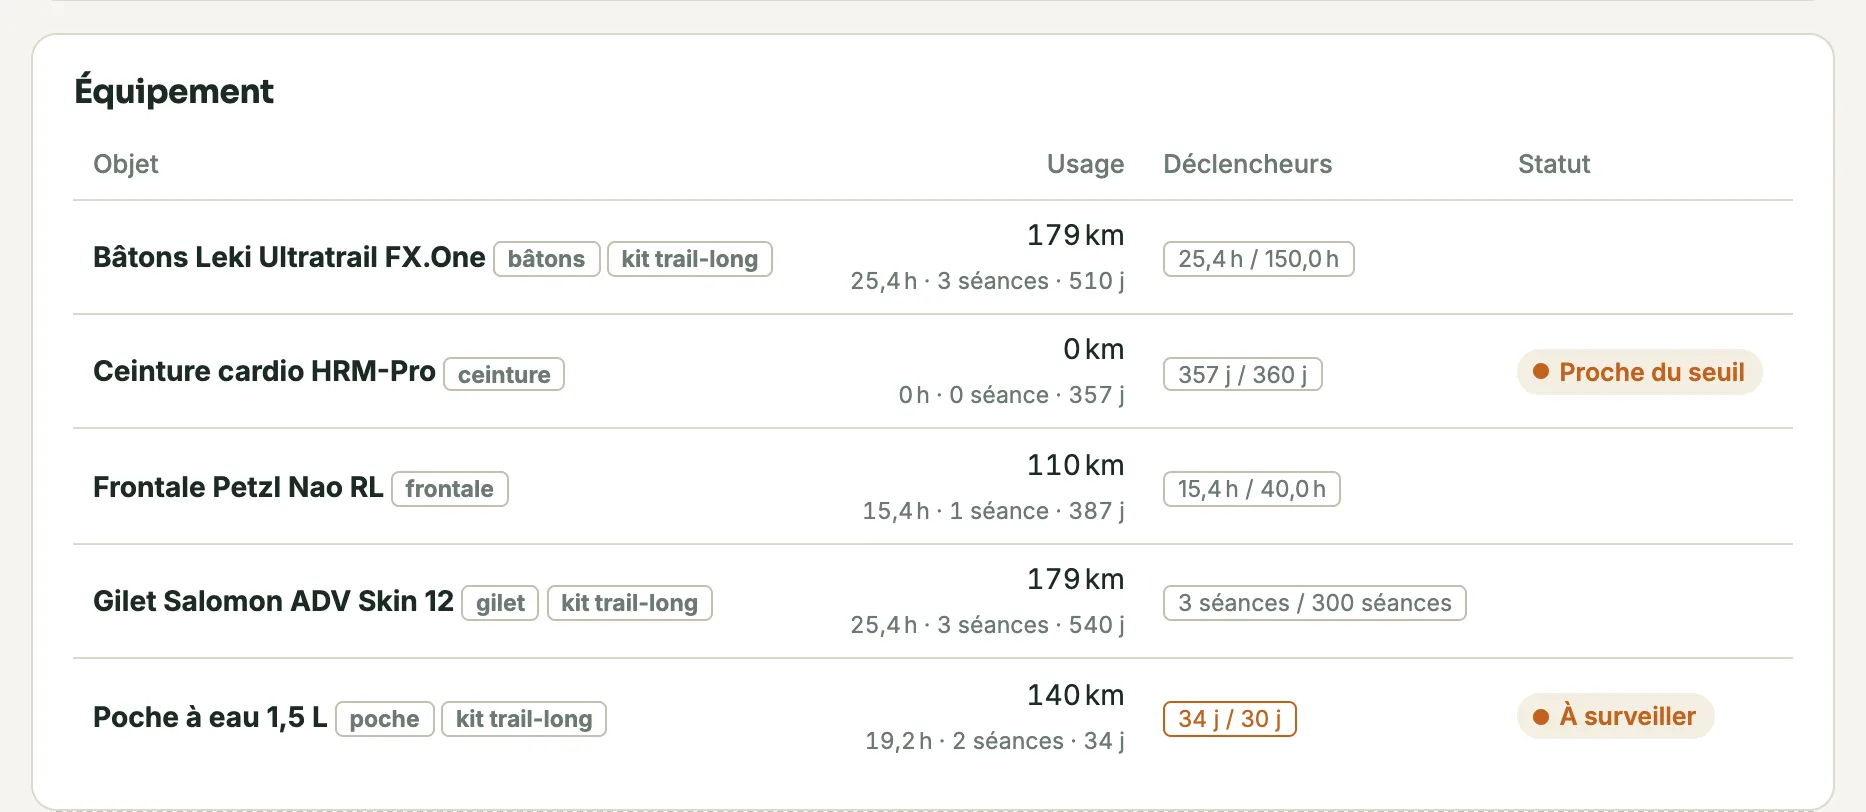
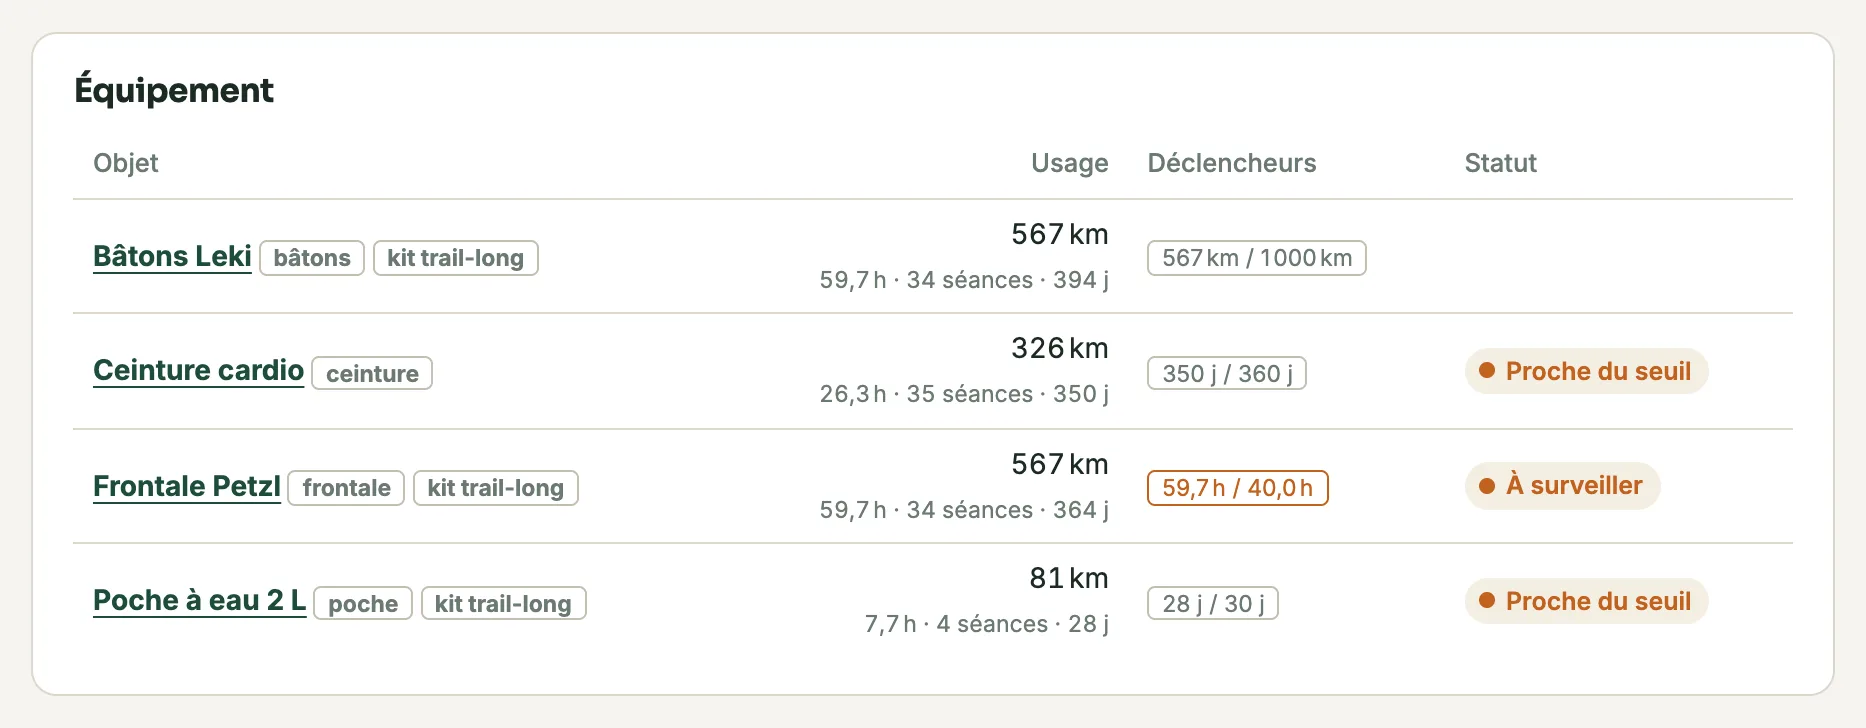
docs(matériel): captures sur workspace de démonstration, fiche d'objet, séance, Aujourd'hui, mobile, vignette ; exemple de rapport de rattrapage (#147)
Remplace les deux captures prises sur un workspace réel par un workspace de démonstration
(tests/lib/synthetic.py, inventaire ajusté) : aucune donnée personnelle dans le dépôt.

diff --git a/docs/dashboard/views.md b/docs/dashboard/views.md
@@ -642,6 +642,12 @@ déclaration. Un lien « Hypothèses des modèles » en tête renvoie vers celle
 **chaussures**, l'**équipement** (kits compris) et les **inspections photo**. Les trois cartes
 vivaient jusque-là dans Performance.
 
+!!! note "Captures de cette section"
+    Elles viennent d'un **workspace de démonstration** (générateur des tests,
+    `tests/lib/synthetic.py`), pas du workspace réel des autres captures : un inventaire
+    varié (paire proche du seuil, paire retirée, frontale à contrôler, poche à eau
+    bientôt à nettoyer), sans exposer de données personnelles.
+
 Sans matériel déclaré, la vue montre un état vide utile : la syntaxe à écrire dans « Matériel &
 lieux » du profil, la commande de simulation `python3 scripts/garmin_gear_backfill.py` pour
 rattraper l'historique Garmin (rien n'est écrit sans `--apply`) et des liens vers la documentation.
@@ -662,11 +668,10 @@ dès 90 %, et le rôle `usage:` déclaré s'affiche à côté du nom.
 
 ![Matériel : ce qui est à traiter, puis le kilométrage de chaque paire](../assets/dashboard/materiel.webp)
 
-*La vue Matériel sur un vrai workspace, après le rattrapage Garmin (#145) : en tête « À
-traiter » — la paire principale a dépassé son seuil (920 km pour une alerte à 800 km), deux
-paires n'ont jamais été inspectées —, puis les six paires avec leur « départ » (kilométrage
-antérieur au workspace), la prévision de retraite de la paire en cours et les paires
-retirées en grisé.*
+*La vue Matériel : en tête « À traiter » — la frontale a dépassé ses 40 h, deux paires sont
+à inspecter —, puis les chaussures : l'Adizero SL (« dont 120 km de départ », usure visible
+à la dernière inspection) et la Speedgoat, paire par défaut, affichent leur prévision de
+retraite (≈ 5 et ≈ 4 semaines) ; la Pegasus retirée reste visible en grisé.*
 
 **Équipement** (#134) — un tableau pour tout ce qui n'est pas chaussure (`### Matériel` du
 profil) : par objet, son **usage** (distance, heures, séances, jours depuis la date de
@@ -681,10 +686,10 @@ s'affiche que si le profil déclare du matériel ; le détail des règles est da
 
 ![Équipement : usage par objet, déclencheurs en heures, séances et jours, poche à eau à nettoyer](../assets/dashboard/equipement.webp)
 
-*Le tableau Équipement : la poche à eau a passé son rappel d'hygiène de 30 jours depuis
-le dernier entretien, la ceinture cardio approche de son année (« 12 mois » compté 360 j),
-les bâtons et le gilet du kit « trail-long » cumulent heures et séances. Inventaire
-d'illustration, usage calculé sur les séances réelles du workspace des captures.*
+*Le tableau Équipement : la frontale a atteint son seuil en heures (59,7 h / 40 h), la
+ceinture cardio approche de son année (« 12 mois » compté 360 j) et la poche à eau de son
+rappel d'hygiène (28 j / 30 j depuis le dernier entretien) ; les objets du kit
+« trail-long » portent leur étiquette.*
 
 **Inspections photo** (#135) — pour chaque paire, l'historique des inspections du dossier
 `gear/` (plus récente d'abord) : état 🟢🟡🟠🔴 écrit aussi en toutes lettres, kilométrage à
@@ -699,10 +704,10 @@ n'est à inspecter.
 
 ![Inspections photo : historique par paire, état, zones d'usure, asymétrie et vignettes](../assets/dashboard/inspections.webp)
 
-*Les inspections photo : la paire au-delà du seuil n'a jamais été inspectée (« Inspection
-conseillée ») ; la Pegasus compte deux inspections chaînées — la seconde, plus dégradée,
-relève une asymétrie légère côté gauche. Inspections et photos d'illustration (vignettes
-schématiques), jamais de vraies photos dans le dépôt.*
+*Les inspections photo : l'Adizero SL compte deux inspections chaînées — la seconde, plus
+dégradée que la précédente, relève une asymétrie légère (pied gauche plus usé) ; la Speedgoat
+n'a jamais été inspectée (« Inspection conseillée »). Photo schématique : jamais de vraies
+photos dans le dépôt.*
 
 ### Fiche d'une paire ou d'un objet
 
@@ -723,13 +728,30 @@ ouvre sa fiche, à l'adresse partageable `#/materiel/<gear_id>` :
 
 ![Fiche d'une paire : bilan de carrière, kilomètres par mois, séances et inspections](../assets/dashboard/materiel-fiche.webp)
 
-*La fiche d'une paire (vrai workspace) : bilan de carrière — kilométrage, séances, course et
-sortie la plus longue, meilleurs efforts, seuil, lien Garmin —, kilomètres par mois, puis la
-liste des séances (chacune renvoie vers son détail) et les inspections de la paire.*
+*La fiche d'une paire : bilan de carrière — kilométrage, séances et période, courses, sortie la
+plus longue, meilleurs efforts, seuil et prévision, lien Garmin —, kilomètres par mois, puis
+la liste des séances (chacune renvoie vers son détail) et les inspections de la paire.*
+
+![Fiche d'un objet d'équipement : usage depuis l'entretien et total à vie, déclencheurs, kit, séances](../assets/dashboard/materiel-fiche-equipement.webp)
+
+*La fiche d'un objet : la poche à eau compte 4 séances depuis son dernier entretien
+(2 septembre) pour 34 à vie ; son déclencheur en jours (28 j / 30 j) la met « proche du
+seuil », avec le rappel avant séance ; le kit « trail-long » renvoie vers ses autres objets.
+Plus bas, les séances d'avant l'entretien sont grisées.*
 
 La page d'une séance affiche de son côté « Chaussure » (paire attribuée, mention « paire par
 défaut » quand elle n'est pas déclarée sur la séance) et « Équipement porté » (`gear_ids`,
-hors chaussures), lorsqu'ils existent.
+hors chaussures), lorsqu'ils existent, chacun renvoyant vers sa fiche.
+
+![Détail d'une séance : chaussure attribuée et équipement porté, en lien vers leurs fiches](../assets/dashboard/seance-materiel.webp)
+
+*Une sortie longue : la Speedgoat, « paire par défaut » (aucune paire déclarée sur la séance),
+et l'équipement porté du kit « trail-long ».*
+
+Sur **Aujourd'hui**, une tuile « Matériel à contrôler » (ou « Chaussures à surveiller »)
+apparaît dans « Au programme » dès qu'un élément atteint son seuil, avec un lien vers la vue :
+
+![Aujourd'hui : la tuile « Matériel à contrôler » sous la séance du jour](../assets/dashboard/aujourdhui-materiel.webp)
 
 **Comment la lire** : les kilométrages viennent tous de la même règle d'attribution des
 séances aux paires (`gear_id` explicite, sinon paire par défaut — voir les Hypothèses de
@@ -956,6 +978,7 @@ la [machine coach](headless.md) ou [derrière votre reverse proxy](docker.md).
 ![Semaine sur téléphone](../assets/dashboard/mobile-semaine.webp){ width="260" }
 ![Détail d'une séance sur téléphone](../assets/dashboard/mobile-seance.webp){ width="260" }
 ![Trail Shape sur téléphone](../assets/dashboard/mobile-trail-shape.webp){ width="260" }
+![Matériel sur téléphone](../assets/dashboard/mobile-materiel.webp){ width="260" }
 
 </div>
 

diff --git a/docs/garmin-setup.md b/docs/garmin-setup.md
@@ -180,6 +180,41 @@ python3 scripts/garmin_gear_backfill.py
 python3 scripts/garmin_gear_backfill.py --apply
 ```
 
+Extrait d'un rapport de simulation (noms et identifiants fictifs, format réel) :
+
+```text
+RATTRAPAGE DU MATÉRIEL GARMIN — simulation (rien n'est écrit)
+Workspace : 190 fichier(s) d'activité, 187 avec garmin_activity_id, période 2024-08-15 → 2026-09-29
+
+PAIRES (4 retenue(s), 12 hors période masquée(s) — --all-shoes pour les proposer)
+- Hoka Speedgoat 5 [puce à ajouter]
+    puce proposée : - Hoka Speedgoat 5 — depuis 2025-08-11 — alerte 800 km — id: hoka-speedgoat-5 — garmin: 3f9c2a7e…
+    séances rattachées : 49 (à écrire 49, déjà attribuées 0, conflits 0, ambiguës 0)
+    km : 919.8 dans le workspace · 948.2 au total chez Garmin (51 séance(s))
+    départ : aucun kilométrage antérieur au premier fichier du workspace ; non comptée(s) : 2 dans la période
+             du workspace (trous, à importer par la synchronisation)
+- Nike Pegasus 40 [puce à ajouter] (retirée)
+    puce proposée : - Nike Pegasus 40 — depuis 2024-04-25 — alerte 644 km — départ 239 km — id: nike-pegasus-40 — garmin: 7a1e4c9b… (retirée)
+    séances rattachées : 10 (à écrire 10, déjà attribuées 0, conflits 0, ambiguës 0)
+    départ : 239 km = 20 séance(s) Garmin de la paire antérieures au premier fichier du workspace (2024-08-15)
+…
+PAIRES PAR DÉFAUT CHEZ GARMIN (non reprises : `(par défaut)` n'est jamais posé automatiquement) : Hoka Speedgoat 5
+AMBIGUËS — revendiquées par deux paires chez Garmin, jamais attribuées (4)
+SÉANCES GARMIN ABSENTES DU WORKSPACE (185, 2314 km)
+  - 58 (685 km) antérieures au premier fichier du workspace — comptées dans « départ » des puces nouvelles
+  - 127 (1629 km) dans la période du workspace (trous) — non comptées, jamais réimportées ici
+FICHIERS SANS garmin_activity_id : 3 — non rattachables automatiquement (déclarer la paire dans le chat)
+
+BILAN : 4 puce(s) à ajouter, 0 segment(s) garmin: à ajouter à une puce existante, 108 séance(s) à renseigner, 0 conflit(s), 4 ambiguë(s).
+Simulation seulement. Pour écrire : relancer avec --apply.
+```
+
+Après `--apply`, la dernière ligne résume ce qui a été écrit (`Appliqué : profil mis à jour, N séance(s)
+écrite(s), 0 échec(s)…`) et l'index est reconstruit : la vue [Matériel](dashboard/views.md#materiel)
+affiche aussitôt le kilométrage de chaque paire. Sur un serveur avec le tableau de bord en conteneur,
+reconstruisez l'image après la mise à jour du moteur (`docker compose up -d --build`, voir
+[Docker](dashboard/docker.md#mettre-a-jour)).
+
 Options : `--since AAAA-MM-JJ` (séances du workspace à partir de cette date), `--gear <uuid>` (une seule paire),
 `--all-shoes` (propose aussi les paires sans séance dans la période du workspace — les anciennes paires
 retirées, en `(retirée)`), `--json`, `--workspace`, `--tokens-dir`. Le script est idempotent : une seconde

diff --git a/docs/dashboard/index.md b/docs/dashboard/index.md
@@ -102,7 +102,9 @@ détaillée : comment la lire, d'où viennent ses données, que faire si elle es
     VO2max estimée, temps prédits pour votre objectif, records au kilomètre — et
     toutes les hypothèses.
 
--   **[Matériel](views.md#materiel)** · *Mon matériel est-il en état ?*
+-   [![Matériel](../assets/dashboard/vignette-materiel.webp)](views.md#materiel)
+
+    **[Matériel](views.md#materiel)** · *Mon matériel est-il en état ?*
 
     Kilométrage de chaque paire, équipement et kits, inspections photo, et une fiche par
     paire (bilan de carrière, kilomètres par mois, séances).
